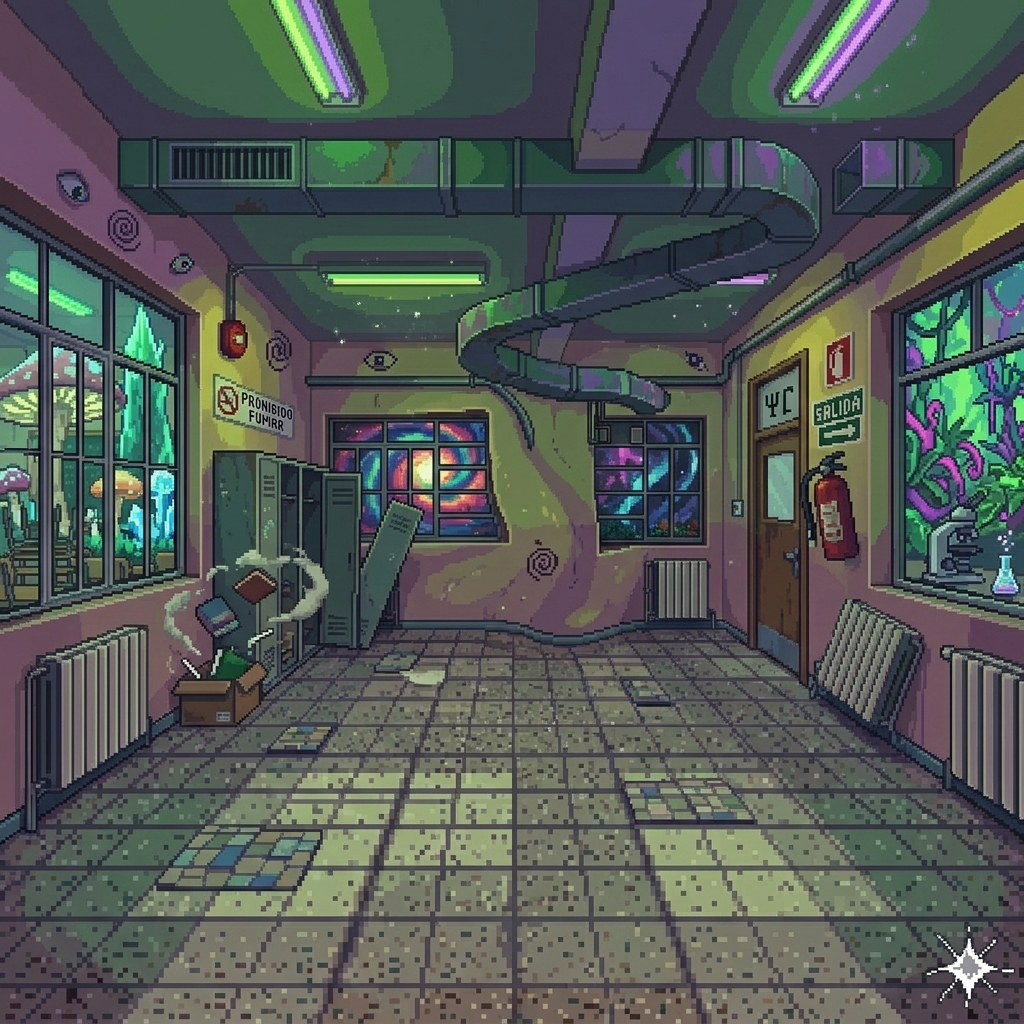
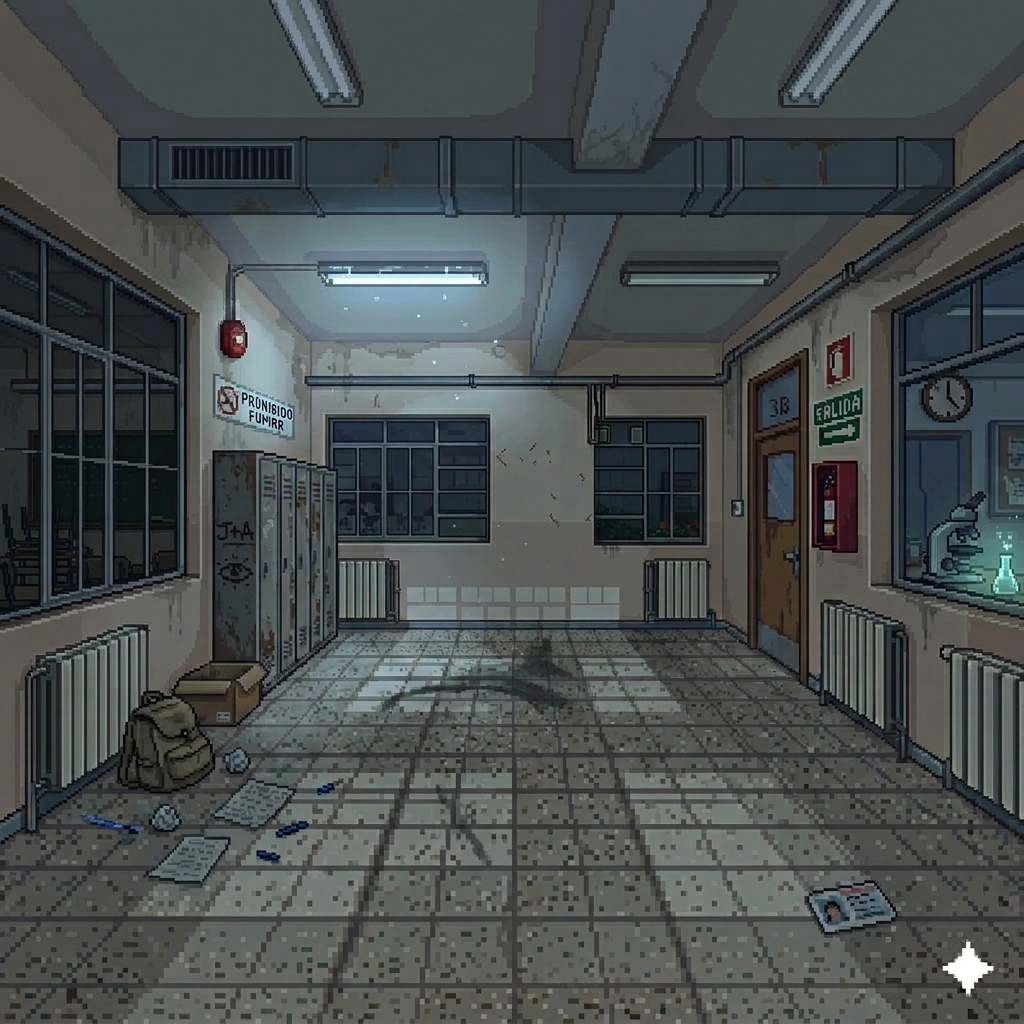
agregue personaje lean, y sonidos de cami

diff --git a/config.py b/config.py
@@ -121,6 +121,21 @@ SPRITES_CONFIG = {
         "festejo01":  ("recursos/gabo/festejo01.png",  512, 512, 12, 1.0)
     },
 
+    "lean": {
+        "quieto":     ("recursos/alan/quieto.png",     512, 512, 12, 1.0),
+        "caminar01":  ("recursos/lean/caminar01.png",  512, 512,  8, 1.0),
+        "caminar02":  ("recursos/lean/caminar02.png",  512, 512,  8, 1.0),
+        "atacar":     ("recursos/lean/atacar.png",     512, 512,  6, 1.0),
+        "bloquear00": ("recursos/lean/bloquear00.png", 512, 512,  1, 1.0),
+        "bloquear01": ("recursos/lean/bloquear01.png", 512, 512,  8, 1.0),
+        "bloquear02": ("recursos/lean/bloquear02.png", 512, 512,  8, 1.0),
+        "muriendo":   ("recursos/lean/muriendo.png",   512, 512,  6, 1.0),
+        "muerto":     ("recursos/lean/muerto.png",     512, 512,  1, 1.0),
+        "golpeado":   ("recursos/lean/golpeado.png",   512, 512,  3, 1.0),
+        # -remplazar cuando este el de lean----------------------------
+        "festejo01":  ("recursos/gabo/festejo01.png",  512, 512, 12, 1.0)
+    },
+
 
     "profe": {
         "quieto":     ("recursos/profe/quieto.png",     512, 512, 12, 1.2),

diff --git a/modelo/fabricaEnemigo.py b/modelo/fabricaEnemigo.py
@@ -9,15 +9,11 @@ class FabricaEnemigos:
             1: Jugador("yiyo", 100, 12, 4),
             2: Jugador("gabo", 100, 15, 3),
             3: Jugador("eliana", 100, 10, 5),
-            4: Jugador("gabriel", 100, 12, 4),
-            5: Jugador("cliver", 100, 12, 4),
-            6: Jugador("cami", 100, 12, 4),
-            7: Jugador("profe", 100, 12, 4)
-            #6: Jugador("lean", 100, 12, 4),
-            #6: Jugador("lean", 100, 12, 4),
-            #6: Jugador("lean", 100, 12, 4),
-            #6: Jugador("lean", 100, 12, 4),
-            #6: Jugador("lean", 100, 12, 4),
+            4: Jugador("lean", 100, 12, 4),
+            5: Jugador("cami", 100, 12, 4),
+            6: Jugador("gabriel", 100, 12, 4),
+            7: Jugador("cliver", 100, 12, 4),
+            8: Jugador("profe", 100, 12, 4)
         }
 
         return enemigos.get(nivel)

diff --git a/control/controladorSonido.py b/control/controladorSonido.py
@@ -11,7 +11,7 @@ class ControladorSonido:
         self.sonido_golpe = self._cargar("recursos/sonidos/golpear2.wav")
 
         # Nombres de los personajes que tienen sonidos propios
-        nombres_personajes = ["alan", "eliana", "gabriel", "gabo", "yiyo", "cliver", "profe"] #cami, lean
+        nombres_personajes = ["alan", "eliana", "gabriel", "gabo", "yiyo", "cliver", "cami", "lean", "profe"]
 
         # En vez de un diccionario de diccionarios, usamos dos diccionarios planos:
         # uno para "golpeado" y otro para "muriendo". Misma información, menos anidado.

diff --git a/main.py b/main.py
@@ -44,7 +44,6 @@ def reproducir_video(ruta_video, pantalla):
     clip.close()
 
 
-# -----------------------------
 # INICIO
 # -----------------------------
 